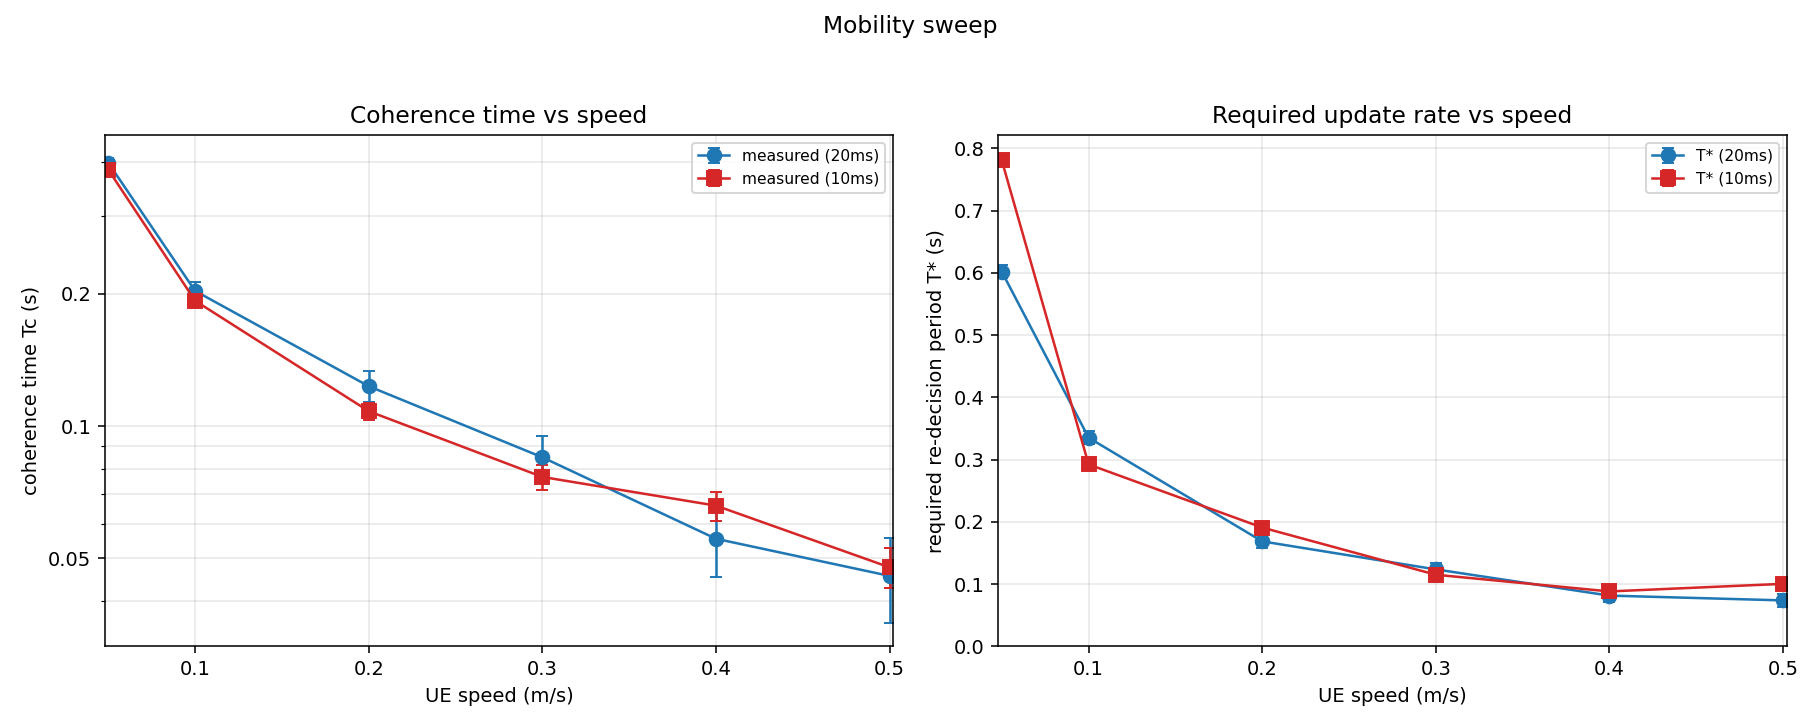
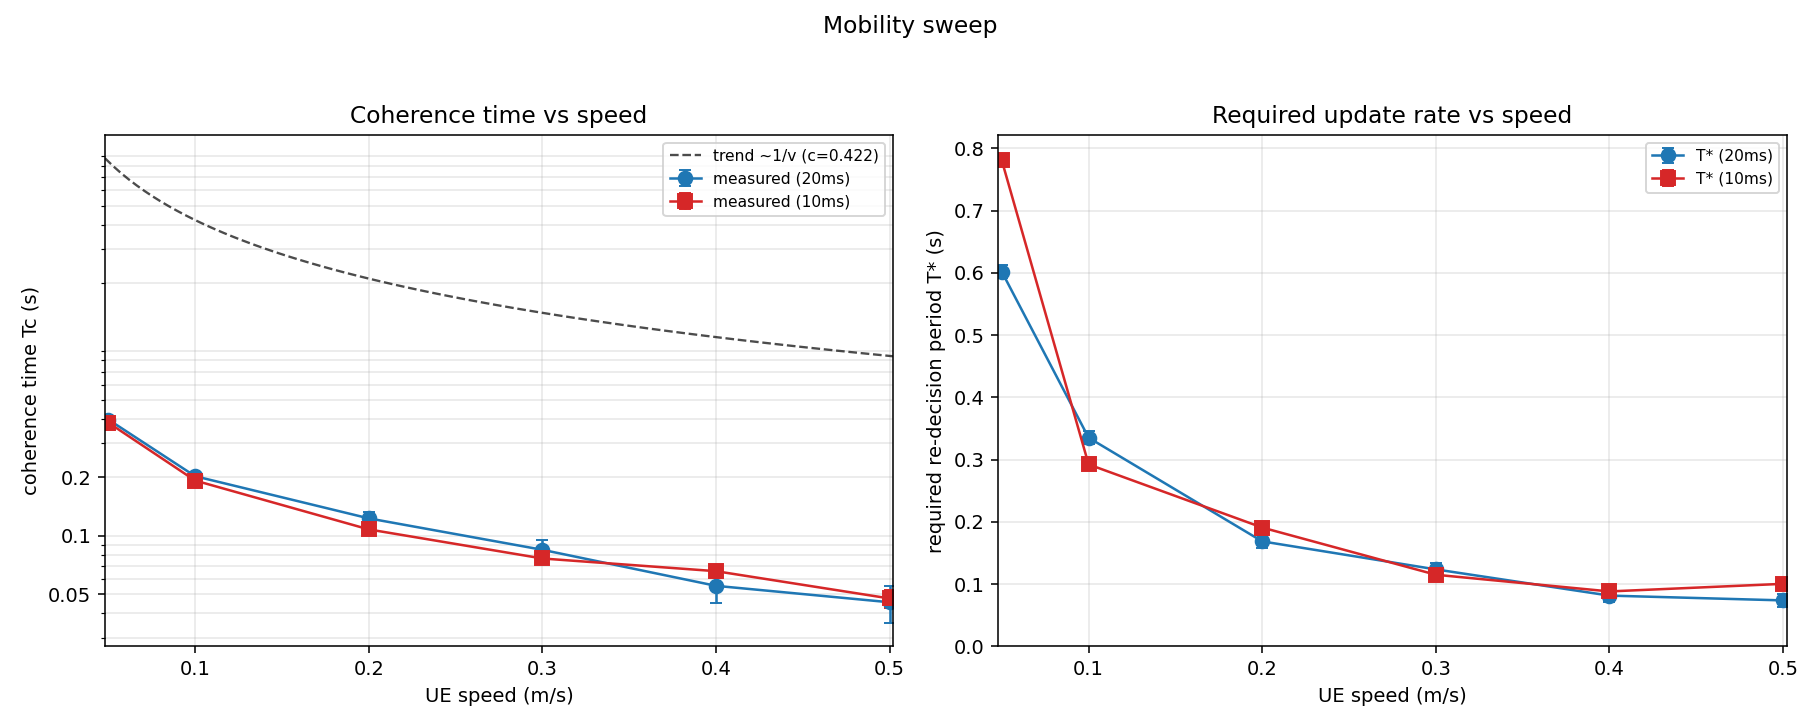
plot_mobility_sweep.py: add 0.422/v trend line to Tc-vs-speed panel; regenerate mobility_sweep.png and mobility_sweeps.png

diff --git a/tools/plot_mobility_sweep.py b/tools/plot_mobility_sweep.py
@@ -50,6 +50,9 @@ def main():
         yt=sorted(t for t in cands if lo*0.9<=t<=hi*1.1)
         ax[0].set_yticks(yt); ax[0].set_yticklabels([f"{t:g}" for t in yt])
         ax[0].yaxis.set_minor_formatter(matplotlib.ticker.NullFormatter())
+    c = 0.422
+    vv = np.linspace(0.048, 0.502, 100)
+    ax[0].plot(vv, c/vv, "k--", lw=1.2, alpha=0.7, label=f"trend ~1/v (c={c})")
     ax[0].set_xlim(0.048,0.502); ax[0].grid(alpha=.3,which="both"); ax[0].legend(fontsize=8)
 
     # ---- T* vs speed (with error bars) ----
